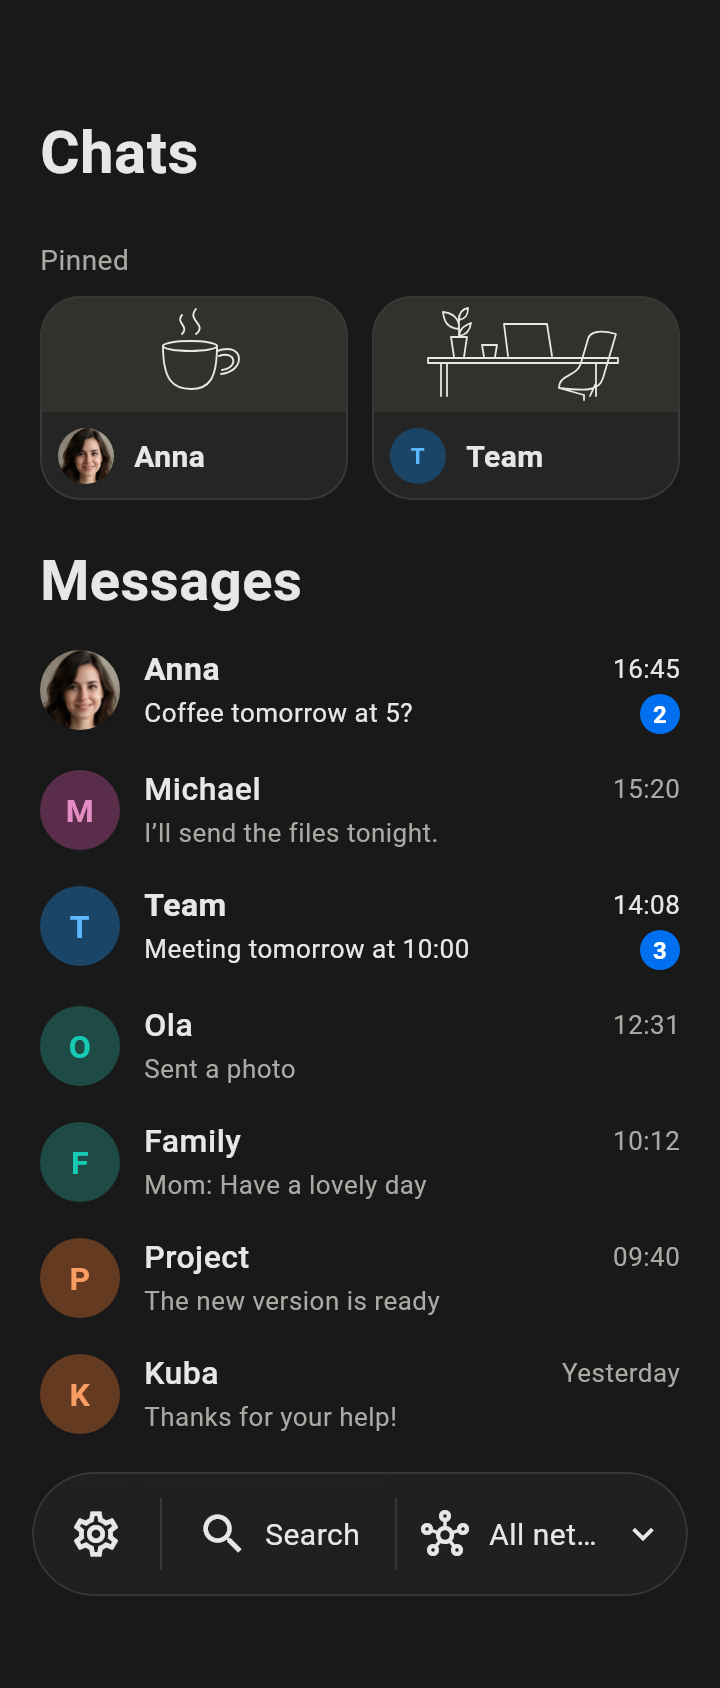
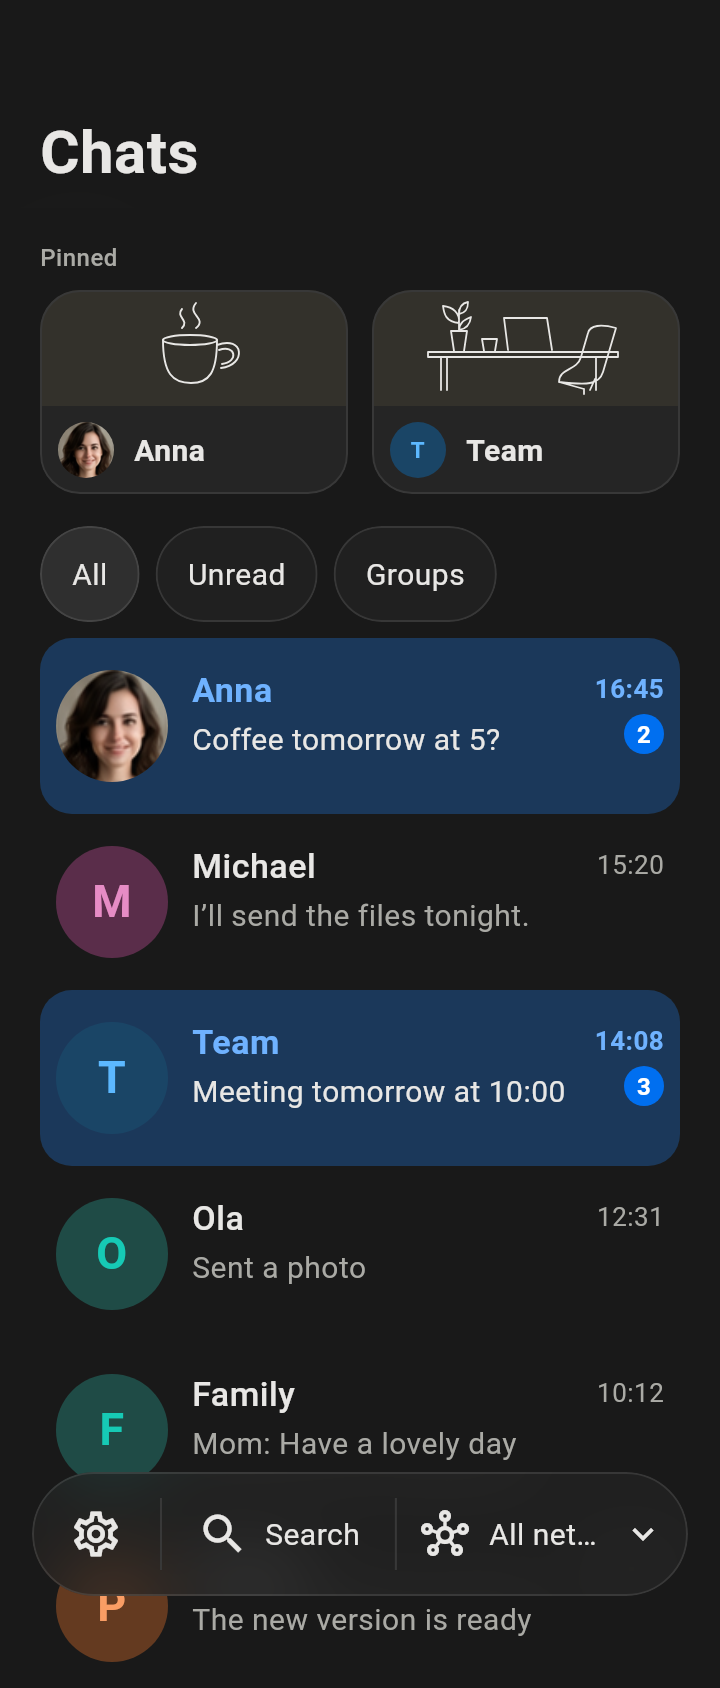
fix(verify): harness runs only suites whose imports resolve in it
The Notion UI gate had been red since wave 5: new suites needing the full
app were never excluded and two inbox presenters' imports were not copied.
Eligibility is now derived from each test's import closure; refreshed
inbox and chat-details goldens and the evidence screenshots.

diff --git a/scripts/verify-notion-ui.py b/scripts/verify-notion-ui.py
@@ -35,6 +35,7 @@ SOURCES = (
  'lib/personal/ui/inbox_health_notice.dart',
  'lib/personal/ui/notion_transcribe_button.dart',
  'lib/personal/ui/notion_inbox_page.dart', 'lib/personal/ui/notion_inbox_row.dart',
+ 'lib/personal/ui/notion_inbox_view_chips.dart', 'lib/personal/ui/notion_inbox_network_badge.dart',
  'lib/personal/ui/notion_inbox_pins.dart', 'lib/personal/ui/notion_inbox_dock.dart',
  'lib/personal/ui/notion_network_filter.dart', 'lib/personal/ui/notion_network_selector.dart',
  'lib/personal/ui/notion_search_controls.dart',
@@ -46,11 +47,47 @@ SOURCES = (
  'lib/pages/chat/conversation_motion.dart', 'lib/pages/chat/conversation_message_gestures.dart',
  'lib/pages/chat/compact_composer.dart', 'lib/pages/chat/conversation_source_picker.dart',
  'lib/pages/chat/composer_action_tray.dart', 'lib/pages/chat/voice_record_button.dart',
+ 'lib/pages/chat/conversation_service_chip.dart',
  'lib/config/themes.dart', 'lib/widgets/layouts/two_column_layout.dart',
 )
 
 # UI motion packages; only lib/ui/notion imports them (design lint).
 MOTION_PACKAGES = ('flutter_animate', 'skeletonizer')
+
+# A directive runs to its ';'; every quoted string in it is a URI (conditional imports too).
+DIRECTIVE = re.compile(r'^(?:import|export|part)\s+([^;]*);', re.M)
+URI = re.compile(r'''['"]([^'"]+)['"]''')
+# Tests that read app sources at runtime (File('lib/...dart')) depend on them too.
+SOURCE_LITERAL = re.compile(r'''['"](lib/[^'"$]+\.dart)['"]''')
+
+def local_closure(start, packages):
+ """Files reachable from start through imports/exports/parts, and what cannot resolve.
+
+ package:chatloom maps to lib/, package:personal_core is copied whole; any other
+ package must be in the harness dependency graph. Returns (files, unresolved).
+ """
+ seen, unresolved, stack = set(), set(), [start]
+ while stack:
+  relative = stack.pop()
+  if relative in seen:
+   continue
+  seen.add(relative)
+  path = ROOT / relative
+  if not path.is_file():
+   unresolved.add(relative)
+   continue
+  for uri in (uri for match in DIRECTIVE.finditer(path.read_text()) for uri in URI.findall(match.group(1))):
+   if uri.startswith('dart:'):
+    continue
+   if uri.startswith('package:'):
+    package, _, rest = uri[len('package:'):].partition('/')
+    if package == 'chatloom':
+     stack.append('lib/' + rest)
+    elif package != 'personal_core' and package not in packages:
+     unresolved.add(uri)
+    continue
+   stack.append(os.path.normpath(str(Path(relative).parent / uri)))
+ return seen, unresolved
 
 def write(relative, data):
  target = HARNESS / relative
@@ -89,32 +126,30 @@ def prepare(flutter):
  # metadata_actions.dart reaches into the app graph (PersonalClient).
  sources = [str(path.relative_to(ROOT)) for path in sorted((ROOT / 'lib/ui/notion').glob('*.dart')) if path.name != 'metadata_actions.dart']
  sources += list(SOURCES)
- # SDK/controller suites run with native hooks through run-personal-app-tests.py.
- full_graph_only = {'two_column_accessibility_test.dart',
-                    'attachment_flow_test.dart',
-                    'composer_ux_integration_test.dart',
-                    'dialog_motion_test.dart',
-                    'inbox_motion_test.dart',
-                    'conversation_message_actions_test.dart',
-                    'conversation_timeline_integration_test.dart',
-                    'conversation_ux_capture_test.dart',
-                    'content_interactions_test.dart',
-                    'content_transport_test.dart',
-                    'inbox_resource_lifecycle_test.dart',
-                    'inbox_startup_lifecycle_test.dart',
-                    'profile_content_capture_test.dart',
-                    'page_transitions_test.dart',
-                    'predictive_back_test.dart',
-                    'composer_send_test.dart',
-                    'conversation_bubble_layout_test.dart',
-                    'conversation_message_menu_test.dart',
-                    'composer_record_buttons_test.dart',
-                    # Wave 4: they import app code outside the harness
-                    # (inbox controller, outgoing media, chat list view).
-                    'desktop_column_layout_test.dart',
-                    'inbox_controller_latency_test.dart',
-                    'send_status_test.dart'}
- sources += [str(path.relative_to(ROOT)) for path in sorted((ROOT / 'test/notion').glob('*_test.dart')) if not path.name.endswith(('_controller_test.dart', '_adapter_test.dart')) and path.name not in full_graph_only]
+ # Presenter sources must be self-contained: a missing import is a SOURCES gap.
+ packages = visited | {'flutter', 'flutter_test'}
+ allowed = set(sources)
+ for name in list(sources):
+  files, unresolved = local_closure(name, packages)
+  gaps = sorted(unresolved | {f for f in files if f.startswith('lib/') and f not in allowed})
+  if gaps:
+   raise RuntimeError(f'{name} imports outside the harness; add pure-UI files to SOURCES: ' + ', '.join(gaps))
+ # A test/notion suite is harness-eligible only if its whole import closure
+ # resolves here (harness sources, test/notion helpers, harness packages) and
+ # every lib/*.dart path literal it reads at runtime is a harness source.
+ # Suites reaching the matrix SDK, providers, plugins or app controllers run
+ # with native hooks in the full app suite (run-personal-app-tests.py) instead.
+ full_graph_only = []
+ for path in sorted((ROOT / 'test/notion').glob('*_test.dart')):
+  name = str(path.relative_to(ROOT))
+  files, unresolved = local_closure(name, packages)
+  files |= set(SOURCE_LITERAL.findall(path.read_text()))
+  outside = {f for f in files if f.startswith('lib/') and f not in allowed}
+  if unresolved or outside:
+   full_graph_only.append(path.name)
+   continue
+  sources += sorted(f for f in files if f.startswith('test/') and f not in sources)
+ print(f'Harness skips {len(full_graph_only)} full-app suites (run by the app suite): ' + ', '.join(full_graph_only), flush=True)
  sources += [str(path.relative_to(ROOT)) for path in sorted((ROOT / 'assets/notion').rglob('*')) if path.is_file()]
  sources += [str(path.relative_to(ROOT)) for path in sorted((ROOT / 'test/notion/goldens').rglob('*.png'))]
  sources += [str(path.relative_to(ROOT)) for path in sorted((ROOT / 'packages/personal_core/lib').rglob('*.dart'))]

diff --git a/docs/notion-ui/VERIFICATION.md b/docs/notion-ui/VERIFICATION.md
@@ -106,3 +106,7 @@ See [`DESIGN.md`](../../DESIGN.md). `scripts/verify-notion-ui.py --update-golden
 ## Motion foundation — 2026-10-19
 
 Packages `flutter_animate 4.5.2` and `skeletonizer 3.0.0` (exact pins; new transitive `flutter_shaders 0.1.5`; no other lock change). The golden harness copies every `lib/ui/notion/*.dart` (except `metadata_actions.dart`) plus the two legacy loop shims and pins both packages. `test/notion/motion_primitives_test.dart` (33 tests) covers settle-to-identity, reduced motion, no pending timers, loops under `TickerMode` off, the delayed loader, dialog/popover/sheet routes and play-once scopes. New golden `primitives/motion-dark.png` (resting states under reduced motion); every existing golden unchanged. Design lint gained `motion-import`, `motion-blur`, `motion-duration`, `legacy-material-import` and `motion-animate-widget`; existing hits (2 blur, 5 duration) were frozen in the baseline. On-device frame timing (Pixel probe build), real predictive back and haptics are NOT RUN.
+
+## Harness selection rule — 2026-10-24 (wave 6)
+
+`scripts/verify-notion-ui.py` no longer keeps a hand list of excluded suites. A `test/notion/*_test.dart` suite runs in the presenter harness only if its whole import/export/part closure resolves there (harness sources, `test/notion` helpers, `personal_core`, the pinned package graph) and every `lib/*.dart` path literal it reads at runtime is a harness source. Suites reaching the Matrix SDK, providers, plugins or app controllers (42 now, including every former `*_controller_test`/`*_adapter_test`) are listed on each run and execute with native hooks in the full app suite. Presenter sources must be self-contained: a `SOURCES` file importing a file outside the harness fails the gate with the missing paths instead of a compile error. The gate had been failing on `main` since wave 5 (`notion_inbox_view_chips.dart` and `notion_inbox_network_badge.dart` missing from `SOURCES`); both plus wave 6 `conversation_service_chip.dart` were added. Run: 34 suites, 337 tests PASS, analyzer 0 errors/0 warnings (5 infos). Three goldens regenerated after visual review: `screens/inbox-390.png` and `screens/inbox-390-scrolled.png` (wave 5 view chips All/Unread/Groups replace the "Messages" header), `screens/chat-details-390.png` (wave 6 header without the divider after Back). Real device/account rendering NOT RUN.
